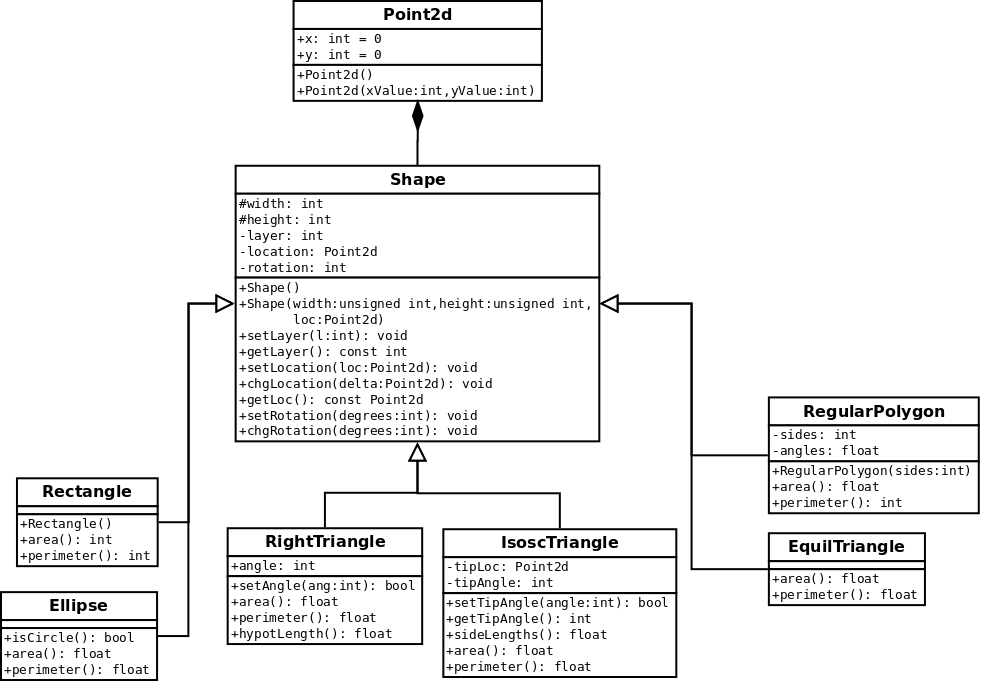
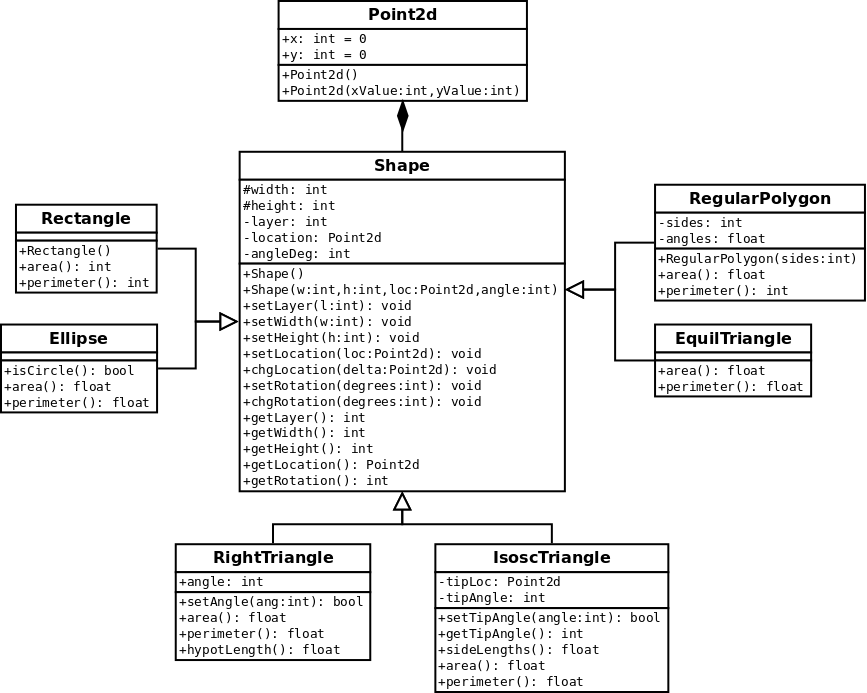
First child class example.
+ Implemented and explained the Rectangle class.
+ Wrote short section on passing child classes into
functions requiring the base.
+ Updated the main UML diagram

Changed region(s): [[0.0, 0.0, 1.0, 1.0]]

diff --git a/html/cppclassinheritcomp.html b/html/cppclassinheritcomp.html
@@ -125,6 +125,10 @@ $(document).ready(function(){initNavTree('cppclassinheritcomp.html','');});
 <div class="toc"><h3>Table of Contents</h3>
 <ul><li class="level1"><a href="#cppclasscomp">Composition</a></li>
 <li class="level1"><a href="#cppclassinherit">Inheritance</a><ul><li class="level2"><a href="#cppclassinherituml">UML Diagrams</a></li>
+<li class="level2"><a href="#Example"></a></li>
+<li class="level2"><a href="#cppclassinheritbase">The Base Class: Shape</a></li>
+<li class="level2"><a href="#cppclassinheritchild1">Child Class: Rectangle</a></li>
+<li class="level2"><a href="#cppclassinheritfn">Inheritance & Functions</a></li>
 </ul>
 </li>
 </ul>
@@ -191,12 +195,62 @@ UML Diagrams</h2>
 </li>
 <li>As you will see below, classes that inherit another class are shown with an arrow pointing to the class they inherit</li>
 </ul>
+<h2><a class="anchor" id="Example"></a>
+Example</h2>
+<p>The best way to show how inheritance works is to use it. For this reason, we will implement a class that contains shape properties, and then use inheritance to create classes that correspond to specific shapes. Many graphics libraries (often used to create games) have something similar to this. Note that this example will require basic trigonometry skills (applications of sine, cosine, and tangent).</p>
 <p><div class="diagraph">
 <img src="/home/caleb/Documents/FRC2550-Git/Team2550.github.io/html/dia_ShapeClass.png" />
 <div class="caption">
-The UML inheritance diagram showing the relation between the Shape class and its various decedents and components.</div>
+Here is the UML inheritance diagram showing the relation between the Shape class and its decedents and components.</div>
 </div>
-</p>
+ </p>
+<dl class="section note"><dt>Note</dt><dd>The default constructor for each class is implied.</dd></dl>
+<h2><a class="anchor" id="cppclassinheritbase"></a>
+The Base Class: Shape</h2>
+<p>Here is the declaration and implementation of the <code>Shape</code> class.</p>
+<h3>FILE: Shape.hh</h3>
+<div class="fragment"></div><!-- fragment --><dl class="section note"><dt>Note</dt><dd><code>width</code> and <code>height</code> are protected because other classes may need access to them.</dd></dl>
+<h3>FILE: Shape.cc</h3>
+<div class="fragment"></div><!-- fragment --><h2><a class="anchor" id="cppclassinheritchild1"></a>
+Child Class: Rectangle</h2>
+<p>Here is the declaration and implementation of a very simple child class, <code>Rectangle</code>. The only additional methods it supplies are <code>area()</code> and <code>perimeter()</code>.</p>
+<h3>FILE: Rectangle.hh</h3>
+<div class="fragment"></div><!-- fragment --><dl class="section note"><dt>Note</dt><dd>The encapsulation level before the name of the base class is important. It is the highest level that a member from <code>Shape</code> can be in a <code>Rectangle</code> object. In other words, if <code>public Shape</code> were changed to <code>private Shape</code>, all of the members that were previously public and protected would be private in the child class. Generally speaking, this is not what you want, and if you want to restrict the access to inherited members, composition is typically the way to go. This does not reduce the protection of any members - inheriting a class as public means that previously public members are public, protected members are protected, and private members are private.</dd></dl>
+<h3>FILE: Rectangle.cc</h3>
+<div class="fragment"></div><!-- fragment --><p>For demonstration purposes, here is a simple test file. </p>
+<div class="fragment"><div class="line"><span class="preprocessor">#include &lt;iostream&gt;</span></div>
+<div class="line"><span class="preprocessor">#include &quot;Rectangle.hh&quot;</span></div>
+<div class="line"><span class="keyword">using namespace </span>std;</div>
+<div class="line"></div>
+<div class="line"><span class="keywordtype">int</span> main() {</div>
+<div class="line">    Rectangle r;</div>
+<div class="line">    <span class="comment">//The following line demonstrates how inheritance works:</span></div>
+<div class="line">    <span class="comment">//getLocation is a method in Shape, but it is being called from a Rectangle object.</span></div>
+<div class="line">    cout &lt;&lt; r.getLocation().x &lt;&lt; <span class="charliteral">&#39; &#39;</span> &lt;&lt; r.getLocation().y &lt;&lt; <span class="charliteral">&#39;\n&#39;</span>;</div>
+<div class="line">    r.setWidth(3);</div>
+<div class="line">    r.setHeight(2);</div>
+<div class="line">    <span class="comment">//Call a method that only exists in Rectangle</span></div>
+<div class="line">    cout &lt;&lt; r.area();</div>
+<div class="line">}</div>
+</div><!-- fragment --><h2><a class="anchor" id="cppclassinheritfn"></a>
+Inheritance &amp; Functions</h2>
+<p>Inheritance also provides a benefit when you are passing a class into a function. You can pass child classes into a function meant for the base class. In other words, you can pass a <code>Rectangle</code> into a function requiring a <code>Shape</code> argument. This makes since, a Rectangle will have no less than a Shape (assuming that it inherited Shape as public).</p>
+<div class="fragment"><div class="line"><span class="preprocessor">#include &lt;iostream&gt;</span></div>
+<div class="line"><span class="preprocessor">#include &quot;Rectangle.hh&quot;</span></div>
+<div class="line"><span class="keyword">using namespace </span>std;</div>
+<div class="line"></div>
+<div class="line"><span class="keywordtype">void</span> printShape(Shape s) {</div>
+<div class="line">    cout &lt;&lt; <span class="stringliteral">&quot;Angle: &quot;</span> &lt;&lt; s.getRotation() &lt;&lt; <span class="stringliteral">&quot; Layer: &quot;</span> &lt;&lt; s.getLayer() &lt;&lt; <span class="charliteral">&#39;\n&#39;</span></div>
+<div class="line">         &lt;&lt; <span class="stringliteral">&quot;Location: &quot;</span> &lt;&lt; s.getLocation().x &lt;&lt; <span class="charliteral">&#39; &#39;</span> &lt;&lt; s.getLocation().y &lt;&lt; <span class="charliteral">&#39;\n&#39;</span></div>
+<div class="line">         &lt;&lt; <span class="stringliteral">&quot;Width: &quot;</span> &lt;&lt; s.getWidth() &lt;&lt; <span class="stringliteral">&quot; Height:&quot;</span> &lt;&lt; s.getHeight() &lt;&lt; <span class="charliteral">&#39;\n&#39;</span>;</div>
+<div class="line">}</div>
+<div class="line"></div>
+<div class="line"><span class="keywordtype">int</span> main() {</div>
+<div class="line">    Rectangle r;</div>
+<div class="line">    printShape(r);</div>
+<div class="line">}</div>
+</div><!-- fragment --><p>The above code works perfectly. Note that <code>r</code> is a <code>Rectangle</code> and the function's parameter type is a <code>Shape</code>. This would cause a compiler error if you set the encapsulation level when <code>Rectangle</code> inherited <code>Shape</code> were something other than <code>public</code>.</p>
+<dl class="section note"><dt>Note</dt><dd>There is a more efficient way to write this function. See <a class="el" href="cppclassfn.html#cppclassfnconst">const functions</a>. </dd></dl>
 </div></div><!-- contents -->
 </div><!-- doc-content -->
 <!-- HTML footer for doxygen 1.8.6-->

diff --git a/mobile/cppclassinheritcomp.html b/mobile/cppclassinheritcomp.html
@@ -46,6 +46,10 @@
 <div class="toc"><h3>Table of Contents</h3>
 <ul><li class="level1"><a href="#cppclasscomp">Composition</a></li>
 <li class="level1"><a href="#cppclassinherit">Inheritance</a><ul><li class="level2"><a href="#cppclassinherituml">UML Diagrams</a></li>
+<li class="level2"><a href="#Example"></a></li>
+<li class="level2"><a href="#cppclassinheritbase">The Base Class: Shape</a></li>
+<li class="level2"><a href="#cppclassinheritchild1">Child Class: Rectangle</a></li>
+<li class="level2"><a href="#cppclassinheritfn">Inheritance & Functions</a></li>
 </ul>
 </li>
 </ul>
@@ -112,12 +116,62 @@ UML Diagrams</h2>
 </li>
 <li>As you will see below, classes that inherit another class are shown with an arrow pointing to the class they inherit</li>
 </ul>
+<h2><a class="anchor" id="Example"></a>
+Example</h2>
+<p>The best way to show how inheritance works is to use it. For this reason, we will implement a class that contains shape properties, and then use inheritance to create classes that correspond to specific shapes. Many graphics libraries (often used to create games) have something similar to this. Note that this example will require basic trigonometry skills (applications of sine, cosine, and tangent).</p>
 <p><div class="diagraph">
 <img src="/home/caleb/Documents/FRC2550-Git/Team2550.github.io/mobile/dia_ShapeClass.png" />
 <div class="caption">
-The UML inheritance diagram showing the relation between the Shape class and its various decedents and components.</div>
+Here is the UML inheritance diagram showing the relation between the Shape class and its decedents and components.</div>
 </div>
-</p>
+ </p>
+<dl class="section note"><dt>Note</dt><dd>The default constructor for each class is implied.</dd></dl>
+<h2><a class="anchor" id="cppclassinheritbase"></a>
+The Base Class: Shape</h2>
+<p>Here is the declaration and implementation of the <code>Shape</code> class.</p>
+<h3>FILE: Shape.hh</h3>
+<div class="fragment"></div><!-- fragment --><dl class="section note"><dt>Note</dt><dd><code>width</code> and <code>height</code> are protected because other classes may need access to them.</dd></dl>
+<h3>FILE: Shape.cc</h3>
+<div class="fragment"></div><!-- fragment --><h2><a class="anchor" id="cppclassinheritchild1"></a>
+Child Class: Rectangle</h2>
+<p>Here is the declaration and implementation of a very simple child class, <code>Rectangle</code>. The only additional methods it supplies are <code>area()</code> and <code>perimeter()</code>.</p>
+<h3>FILE: Rectangle.hh</h3>
+<div class="fragment"></div><!-- fragment --><dl class="section note"><dt>Note</dt><dd>The encapsulation level before the name of the base class is important. It is the highest level that a member from <code>Shape</code> can be in a <code>Rectangle</code> object. In other words, if <code>public Shape</code> were changed to <code>private Shape</code>, all of the members that were previously public and protected would be private in the child class. Generally speaking, this is not what you want, and if you want to restrict the access to inherited members, composition is typically the way to go. This does not reduce the protection of any members - inheriting a class as public means that previously public members are public, protected members are protected, and private members are private.</dd></dl>
+<h3>FILE: Rectangle.cc</h3>
+<div class="fragment"></div><!-- fragment --><p>For demonstration purposes, here is a simple test file. </p>
+<div class="fragment"><div class="line"><span class="preprocessor">#include &lt;iostream&gt;</span></div>
+<div class="line"><span class="preprocessor">#include &quot;Rectangle.hh&quot;</span></div>
+<div class="line"><span class="keyword">using namespace </span>std;</div>
+<div class="line"></div>
+<div class="line"><span class="keywordtype">int</span> main() {</div>
+<div class="line">    Rectangle r;</div>
+<div class="line">    <span class="comment">//The following line demonstrates how inheritance works:</span></div>
+<div class="line">    <span class="comment">//getLocation is a method in Shape, but it is being called from a Rectangle object.</span></div>
+<div class="line">    cout &lt;&lt; r.getLocation().x &lt;&lt; <span class="charliteral">&#39; &#39;</span> &lt;&lt; r.getLocation().y &lt;&lt; <span class="charliteral">&#39;\n&#39;</span>;</div>
+<div class="line">    r.setWidth(3);</div>
+<div class="line">    r.setHeight(2);</div>
+<div class="line">    <span class="comment">//Call a method that only exists in Rectangle</span></div>
+<div class="line">    cout &lt;&lt; r.area();</div>
+<div class="line">}</div>
+</div><!-- fragment --><h2><a class="anchor" id="cppclassinheritfn"></a>
+Inheritance &amp; Functions</h2>
+<p>Inheritance also provides a benefit when you are passing a class into a function. You can pass child classes into a function meant for the base class. In other words, you can pass a <code>Rectangle</code> into a function requiring a <code>Shape</code> argument. This makes since, a Rectangle will have no less than a Shape (assuming that it inherited Shape as public).</p>
+<div class="fragment"><div class="line"><span class="preprocessor">#include &lt;iostream&gt;</span></div>
+<div class="line"><span class="preprocessor">#include &quot;Rectangle.hh&quot;</span></div>
+<div class="line"><span class="keyword">using namespace </span>std;</div>
+<div class="line"></div>
+<div class="line"><span class="keywordtype">void</span> printShape(Shape s) {</div>
+<div class="line">    cout &lt;&lt; <span class="stringliteral">&quot;Angle: &quot;</span> &lt;&lt; s.getRotation() &lt;&lt; <span class="stringliteral">&quot; Layer: &quot;</span> &lt;&lt; s.getLayer() &lt;&lt; <span class="charliteral">&#39;\n&#39;</span></div>
+<div class="line">         &lt;&lt; <span class="stringliteral">&quot;Location: &quot;</span> &lt;&lt; s.getLocation().x &lt;&lt; <span class="charliteral">&#39; &#39;</span> &lt;&lt; s.getLocation().y &lt;&lt; <span class="charliteral">&#39;\n&#39;</span></div>
+<div class="line">         &lt;&lt; <span class="stringliteral">&quot;Width: &quot;</span> &lt;&lt; s.getWidth() &lt;&lt; <span class="stringliteral">&quot; Height:&quot;</span> &lt;&lt; s.getHeight() &lt;&lt; <span class="charliteral">&#39;\n&#39;</span>;</div>
+<div class="line">}</div>
+<div class="line"></div>
+<div class="line"><span class="keywordtype">int</span> main() {</div>
+<div class="line">    Rectangle r;</div>
+<div class="line">    printShape(r);</div>
+<div class="line">}</div>
+</div><!-- fragment --><p>The above code works perfectly. Note that <code>r</code> is a <code>Rectangle</code> and the function's parameter type is a <code>Shape</code>. This would cause a compiler error if you set the encapsulation level when <code>Rectangle</code> inherited <code>Shape</code> were something other than <code>public</code>.</p>
+<dl class="section note"><dt>Note</dt><dd>There is a more efficient way to write this function. See <a class="el" href="cppclassfn.html#cppclassfnconst">const functions</a>. </dd></dl>
 </div></div><!-- contents -->
 <!-- HTML footer for doxygen 1.8.7-->
 <!-- start footer part -->

diff --git a/html/cppclass.js b/html/cppclass.js
@@ -10,9 +10,15 @@ var cppclass =
     [ "Inheritance & Composition", "cppclassinheritcomp.html", [
       [ "Composition", "cppclassinheritcomp.html#cppclasscomp", null ],
       [ "Inheritance", "cppclassinheritcomp.html#cppclassinherit", [
-        [ "UML Diagrams", "cppclassinheritcomp.html#cppclassinherituml", null ]
+        [ "UML Diagrams", "cppclassinheritcomp.html#cppclassinherituml", null ],
+        [ "Example", "cppclassinheritcomp.html#Example", null ],
+        [ "The Base Class: Shape", "cppclassinheritcomp.html#cppclassinheritbase", null ],
+        [ "Child Class: Rectangle", "cppclassinheritcomp.html#cppclassinheritchild1", null ],
+        [ "Inheritance & Functions", "cppclassinheritcomp.html#cppclassinheritfn", null ]
       ] ]
     ] ],
-    [ "Functions & Methods", "cppclassfn.html", null ],
+    [ "Functions & Methods", "cppclassfn.html", [
+      [ "const Functions", "cppclassfn.html#cppclassfnconst", null ]
+    ] ],
     [ "Operator Overloading", "cppclassopoverload.html", null ]
 ];

diff --git a/html/navtreeindex0.js b/html/navtreeindex0.js
@@ -16,9 +16,14 @@ var NAVTREEINDEX0 =
 "cppclass.html#cppclassv2dex":[1,12,3],
 "cppclassencap.html":[1,12,4],
 "cppclassfn.html":[1,12,6],
+"cppclassfn.html#cppclassfnconst":[1,12,6,0],
 "cppclassinheritcomp.html":[1,12,5],
+"cppclassinheritcomp.html#Example":[1,12,5,1,1],
 "cppclassinheritcomp.html#cppclasscomp":[1,12,5,0],
 "cppclassinheritcomp.html#cppclassinherit":[1,12,5,1],
+"cppclassinheritcomp.html#cppclassinheritbase":[1,12,5,1,2],
+"cppclassinheritcomp.html#cppclassinheritchild1":[1,12,5,1,3],
+"cppclassinheritcomp.html#cppclassinheritfn":[1,12,5,1,4],
 "cppclassinheritcomp.html#cppclassinherituml":[1,12,5,1,0],
 "cppclassopoverload.html":[1,12,7],
 "cppconsole.html":[1,3],

diff --git a/html/cppclass.html b/html/cppclass.html
@@ -286,7 +286,7 @@ Example: Vector2d</h1>
 <ul>
 <li><a class="el" href="cppclassencap.html">Encapsulation</a></li>
 <li><a class="el" href="cppclassinheritcomp.html">Inheritance &amp; Composition</a></li>
-<li><a class="el" href="cppclassfn.html">friend, static, const, and virtual functions/methods</a></li>
+<li><a class="el" href="cppclassfn.html">friend, static, and const methods</a></li>
 <li><a class="el" href="cppclassopoverload.html">Operator Overloading</a> </li>
 </ul>
 </div></div><!-- contents -->

diff --git a/mobile/cppclass.html b/mobile/cppclass.html
@@ -207,7 +207,7 @@ Example: Vector2d</h1>
 <ul>
 <li><a class="el" href="cppclassencap.html">Encapsulation</a></li>
 <li><a class="el" href="cppclassinheritcomp.html">Inheritance &amp; Composition</a></li>
-<li><a class="el" href="cppclassfn.html">friend, static, const, and virtual functions/methods</a></li>
+<li><a class="el" href="cppclassfn.html">friend, static, and const methods</a></li>
 <li><a class="el" href="cppclassopoverload.html">Operator Overloading</a> </li>
 </ul>
 </div></div><!-- contents -->

diff --git a/html/cppclassfn.html b/html/cppclassfn.html
@@ -122,7 +122,9 @@ $(document).ready(function(){initNavTree('cppclassfn.html','');});
 <div class="title">Functions &amp; Methods </div>  </div>
 </div><!--header-->
 <div class="contents">
-<div class="textblock"></div></div><!-- contents -->
+<div class="textblock"><h1><a class="anchor" id="cppclassfnconst"></a>
+const Functions</h1>
+</div></div><!-- contents -->
 </div><!-- doc-content -->
 <!-- HTML footer for doxygen 1.8.6-->
 <!-- start footer part -->

diff --git a/mobile/cppclassfn.html b/mobile/cppclassfn.html
@@ -43,7 +43,9 @@
 <div class="title">Functions &amp; Methods </div>  </div>
 </div><!--header-->
 <div class="contents">
-<div class="textblock"></div></div><!-- contents -->
+<div class="textblock"><h1><a class="anchor" id="cppclassfnconst"></a>
+const Functions</h1>
+</div></div><!-- contents -->
 <!-- HTML footer for doxygen 1.8.7-->
 <!-- start footer part -->
 <div id="nav-path" class="navpath"><!-- id is needed for treeview function! -->
